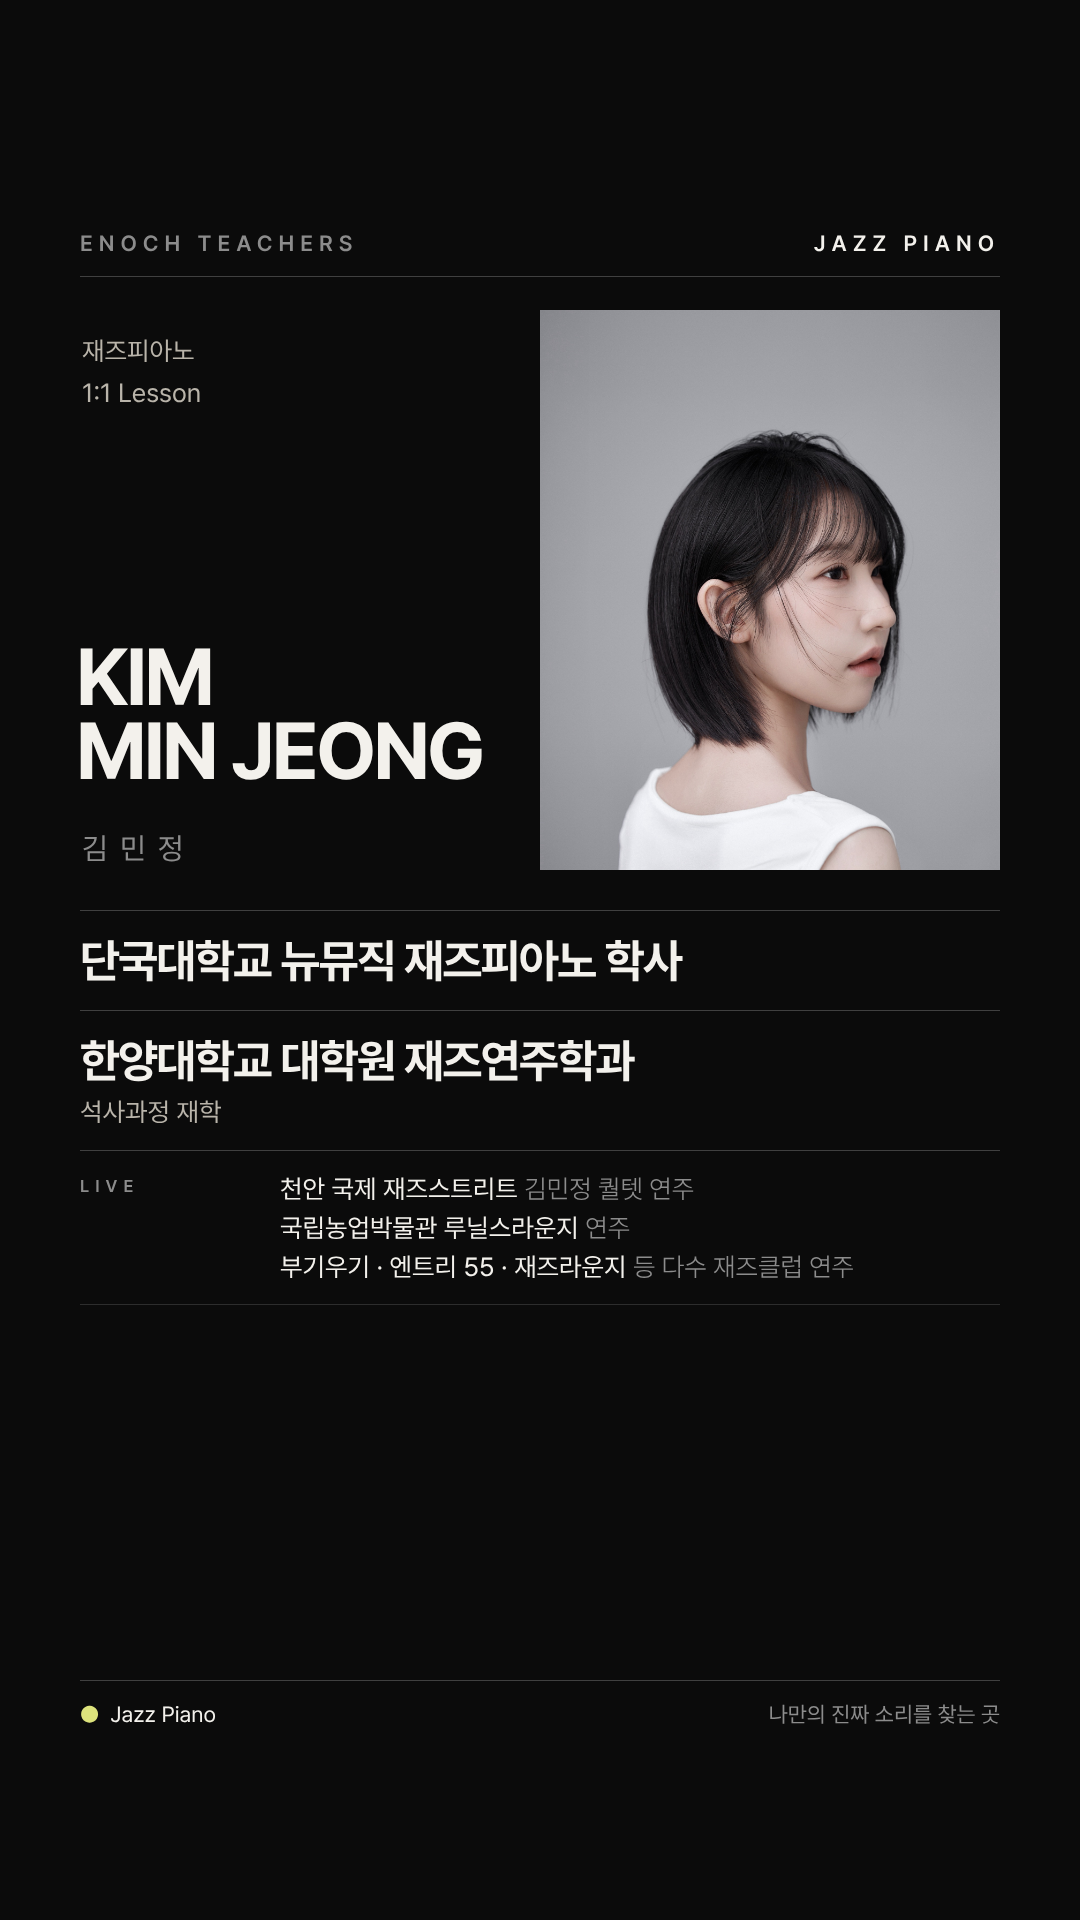
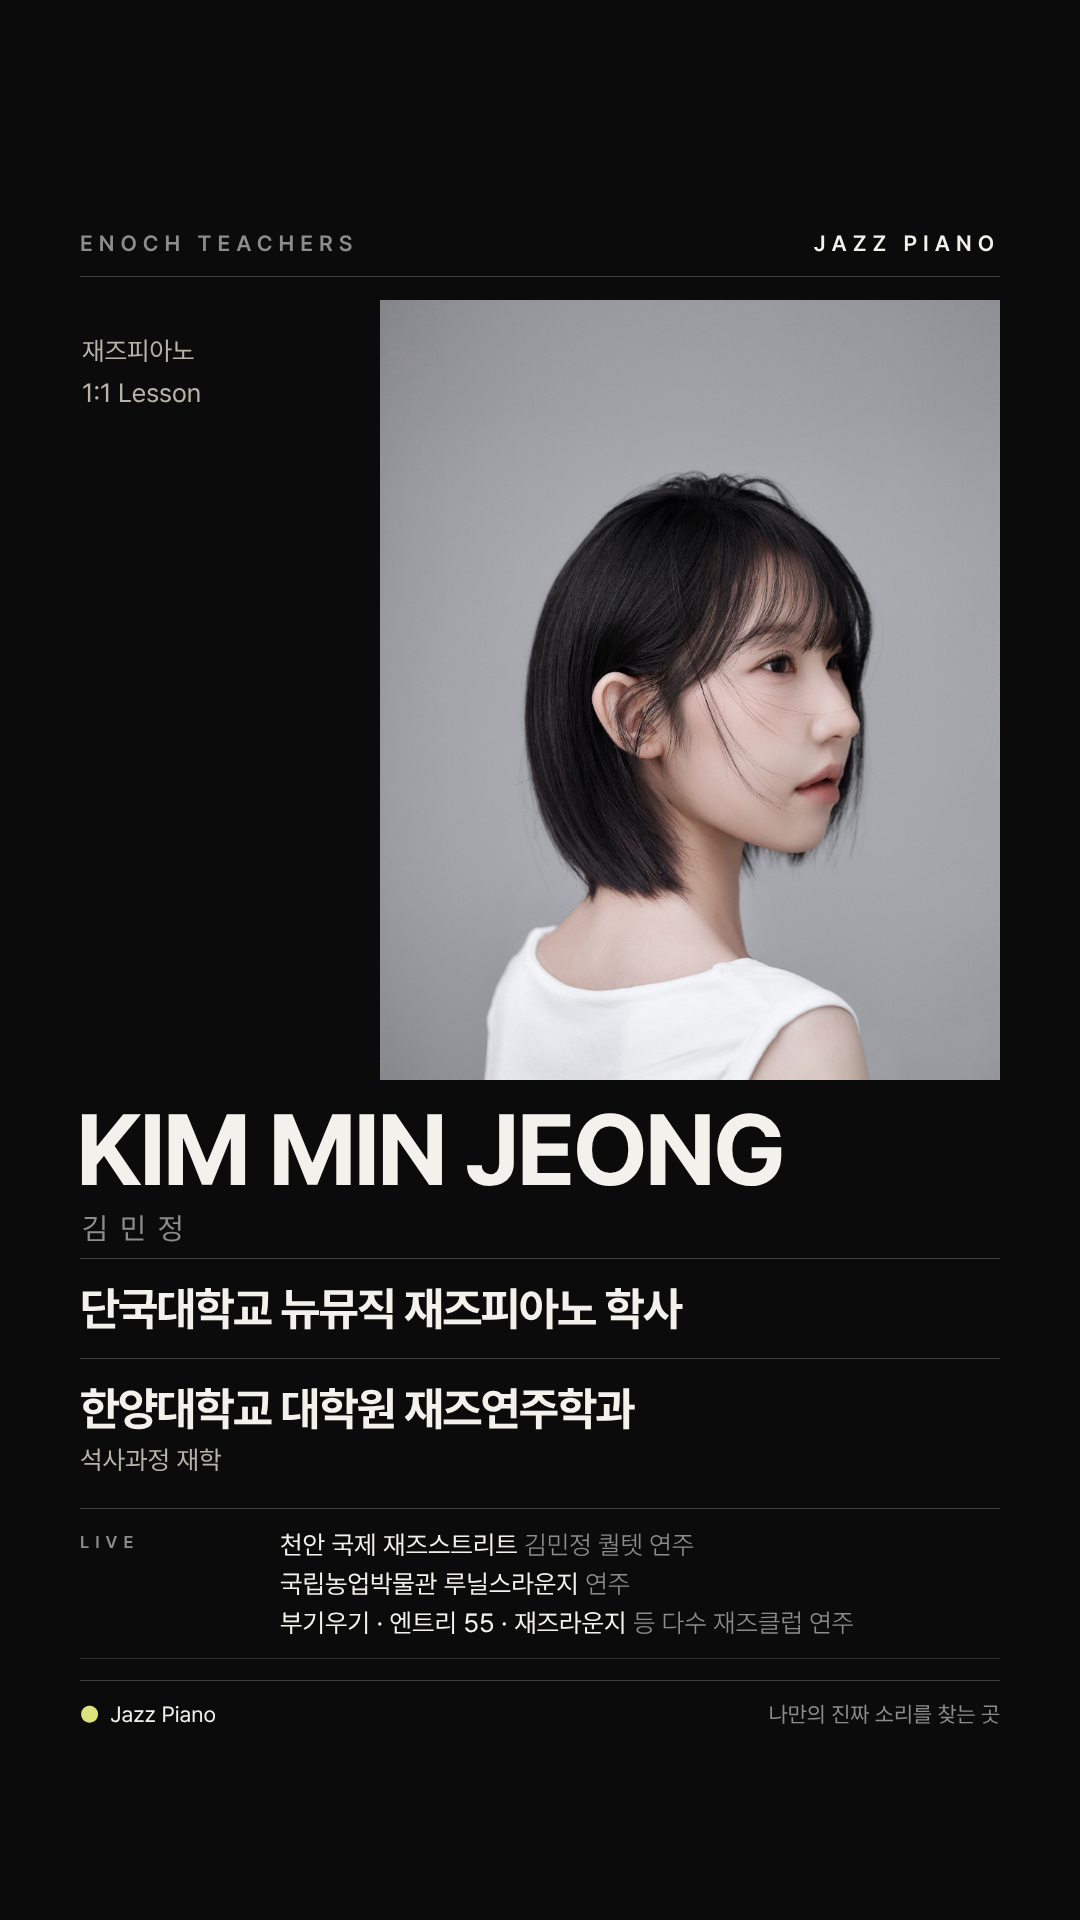
강사소개 김민정 한 장 스토리: 사진 크게, 이름 한 줄
Claude-Session: https://claude.ai/code/session_01HGbZvgMeYrbU7mY8bwfjyb

diff --git a/output/강사소개_김민정/story_one.html b/output/강사소개_김민정/story_one.html
@@ -57,12 +57,17 @@
 #O .bt{position:absolute;left:80px;right:80px;top:1680px;padding-top:20px;display:flex;justify-content:space-between;font-size:22px;border-top:1px solid rgba(255,255,255,.22)}
 </style></head><body>
 
-<style>#O .en{font-size:80px}</style>
+<style>#O .ph{width:620px;height:780px;top:300px}
+#O .en{top:1100px;font-size:100px;line-height:1}
+#O .ko{top:1210px}
+#O .hl{top:1258px}
+#O .body{top:1508px}
+#O .sec{padding:16px 0}</style>
 <section class="s" id="O">
   <div class="top"><span class="lab g">ENOCH TEACHERS</span><span class="lab">JAZZ PIANO</span></div>
   <div class="sb">재즈피아노<br>1:1 Lesson</div>
   <div class="ph"></div>
-  <div class="en">KIM<br>MIN JEONG</div>
+  <div class="en">KIM MIN JEONG</div>
   <div class="ko">김민정</div>
   <div class="hl"><div><b>단국대학교 뉴뮤직 재즈피아노 학사</b></div><div><b>한양대학교 대학원 재즈연주학과</b><span>석사과정 재학</span></div></div>
   <div class="body"><div class="sec"><span class="lab g">LIVE</span><ul><li>천안 국제 재즈스트리트 <i>김민정 퀄텟 연주</i></li><li>국립농업박물관 루닐스라운지 <i>연주</i></li><li>부기우기 · 엔트리 55 · 재즈라운지 <i>등 다수 재즈클럽 연주</i></li></ul></div></div>

diff --git a/output/강사소개_김민정/story_one_ivory.html b/output/강사소개_김민정/story_one_ivory.html
@@ -57,12 +57,17 @@
 #O .bt{position:absolute;left:80px;right:80px;top:1680px;padding-top:20px;display:flex;justify-content:space-between;font-size:22px;border-top:1px solid rgba(17,17,17,.35)}
 </style></head><body>
 
-<style>#O .en{font-size:80px}</style>
+<style>#O .ph{width:620px;height:780px;top:300px}
+#O .en{top:1100px;font-size:100px;line-height:1}
+#O .ko{top:1210px}
+#O .hl{top:1258px}
+#O .body{top:1508px}
+#O .sec{padding:16px 0}</style>
 <section class="s" id="O">
   <div class="top"><span class="lab g">ENOCH TEACHERS</span><span class="lab">JAZZ PIANO</span></div>
   <div class="sb">재즈피아노<br>1:1 Lesson</div>
   <div class="ph"></div>
-  <div class="en">KIM<br>MIN JEONG</div>
+  <div class="en">KIM MIN JEONG</div>
   <div class="ko">김민정</div>
   <div class="hl"><div><b>단국대학교 뉴뮤직 재즈피아노 학사</b></div><div><b>한양대학교 대학원 재즈연주학과</b><span>석사과정 재학</span></div></div>
   <div class="body"><div class="sec"><span class="lab g">LIVE</span><ul><li>천안 국제 재즈스트리트 <i>김민정 퀄텟 연주</i></li><li>국립농업박물관 루닐스라운지 <i>연주</i></li><li>부기우기 · 엔트리 55 · 재즈라운지 <i>등 다수 재즈클럽 연주</i></li></ul></div></div>

diff --git a/output/강사소개_김민정/build_one.py b/output/강사소개_김민정/build_one.py
@@ -8,7 +8,7 @@ BODY = '''<section class="s" id="O">
   <div class="top"><span class="lab g">ENOCH TEACHERS</span><span class="lab">JAZZ PIANO</span></div>
   <div class="sb">재즈피아노<br>1:1 Lesson</div>
   <div class="ph"></div>
-  <div class="en">KIM<br>MIN JEONG</div>
+  <div class="en">KIM MIN JEONG</div>
   <div class="ko">김민정</div>
   <div class="hl"><div><b>단국대학교 뉴뮤직 재즈피아노 학사</b></div><div><b>한양대학교 대학원 재즈연주학과</b><span>석사과정 재학</span></div></div>
   <div class="body"><div class="sec"><span class="lab g">LIVE</span><ul><li>천안 국제 재즈스트리트 <i>김민정 퀄텟 연주</i></li><li>국립농업박물관 루닐스라운지 <i>연주</i></li><li>부기우기 · 엔트리 55 · 재즈라운지 <i>등 다수 재즈클럽 연주</i></li></ul></div></div>
@@ -21,6 +21,6 @@ for name in ('story_one', 'story_one_ivory'):
     head = t[:t.index('<section')]
     head = head.replace('김민주_01.jpg', '김민정_01.jpg').replace('강사 소개 김민주', '강사 소개 김민정')
     head = head.replace('background-position:50% 22%', 'background-position:62% 38%')
-    head += '\n<style>#O .en{font-size:80px}</style>\n'
+    head += '\n<style>#O .ph{width:620px;height:780px;top:300px}\n#O .en{top:1100px;font-size:100px;line-height:1}\n#O .ko{top:1210px}\n#O .hl{top:1258px}\n#O .body{top:1508px}\n#O .sec{padding:16px 0}</style>\n'
     open(os.path.join(HERE, name + '.html'), 'w', encoding='utf-8').write(head + BODY)
 print('story_one.html, story_one_ivory.html')
